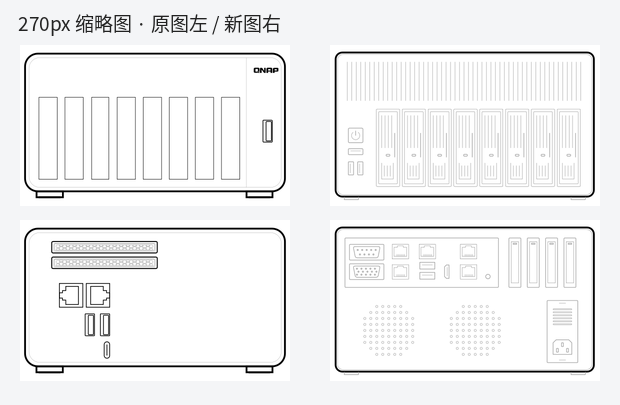
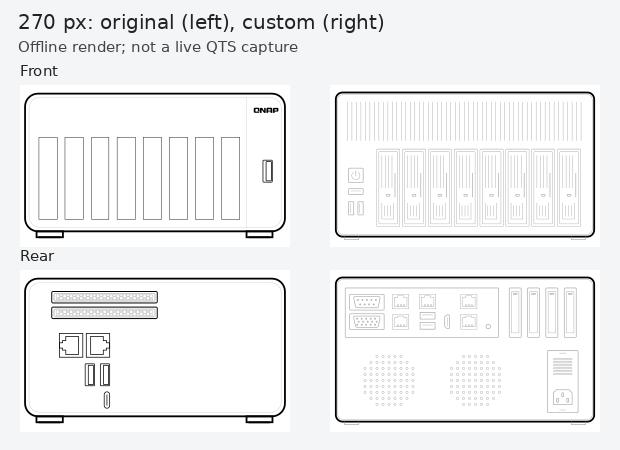
docs: regenerate chassis figures with English labels

Changed region(s): [[0.521, 0.1185, 0.9806, 0.9481], [0.0306, 0.4148, 0.4597, 0.9481], [0.0306, 0.0296, 0.6435, 0.4148]]

diff --git a/tools/render_chassis_comparisons.py b/tools/render_chassis_comparisons.py
@@ -1,0 +1,92 @@
+#!/usr/bin/env python3
+"""Render English-labeled chassis comparisons from locally obtained QTS assets.
+
+Requires Pillow and PyGObject/GdkPixbuf (with SVG support). Does not access a NAS.
+Vendor SVG/CSS inputs are supplied locally and are not part of this repository.
+"""
+from argparse import ArgumentParser
+from pathlib import Path
+import xml.etree.ElementTree as ET
+
+import gi
+from PIL import Image, ImageDraw, ImageFont
+
+gi.require_version('GdkPixbuf', '2.0')
+from gi.repository import GdkPixbuf
+
+NS = 'http://www.w3.org/2000/svg'
+ET.register_namespace('', NS)
+
+
+def main():
+    parser = ArgumentParser(description=__doc__)
+    parser.add_argument('--original-dir', type=Path, required=True)
+    parser.add_argument('--adapted-dir', type=Path, required=True)
+    parser.add_argument('--network-css', type=Path, required=True)
+    parser.add_argument('--output-dir', type=Path, required=True)
+    parser.add_argument('--font', default='/usr/share/fonts/truetype/dejavu/DejaVuSans.ttf')
+    args = parser.parse_args()
+    args.output_dir.mkdir(parents=True, exist_ok=True)
+    css = args.network_css.read_text()
+    font = lambda size: ImageFont.truetype(args.font, size)
+
+    def render(face, custom, dark=False, selected=False):
+        name = f'ts_873a_{face}' + ('.candidate.svg' if custom else '.svg')
+        root = ET.parse((args.adapted_dir if custom else args.original_dir) / name).getroot()
+        for parent in root.iter():
+            for child in list(parent):
+                if child.tag == f'{{{NS}}}style':
+                    parent.remove(child)
+        # Dark rules are a fixture, not extracted mobile CSS or a live capture.
+        ET.SubElement(root, f'{{{NS}}}style').text = css + (
+            '\n.shape,.others,.off,.on{stroke:#aaa}' if dark else '')
+        if selected:
+            target = 'hd_0' if face == 0 else 'ethernet_3'
+            group = next(node for node in root.iter() if node.get('id') == target)
+            for node in group.iter():
+                if node.get('class') == 'off':
+                    node.set('class', 'off on')
+        loader = GdkPixbuf.PixbufLoader.new_with_type('svg')
+        loader.set_size(270, 161)
+        loader.write(ET.tostring(root))
+        loader.close()
+        pix = loader.get_pixbuf()
+        mode = 'RGBA' if pix.get_has_alpha() else 'RGB'
+        image = Image.frombytes(mode, (pix.get_width(), pix.get_height()),
+                                pix.get_pixels(), 'raw', mode, pix.get_rowstride()).convert('RGBA')
+        background = Image.new('RGBA', (270, 162), '#1d1d1d' if dark else 'white')
+        background.alpha_composite(image)
+        return background.convert('RGB')
+
+    comparison = Image.new('RGB', (620, 450), '#f4f5f7')
+    draw = ImageDraw.Draw(comparison)
+    draw.text((18, 10), '270 px: original (left), custom (right)', font=font(20), fill='#222')
+    draw.text((18, 38), 'Offline render; not a live QTS capture', font=font(15), fill='#444')
+    for face, label in enumerate(['Front', 'Rear']):
+        y = 85 + face * 185
+        draw.text((20, y - 23), label, font=font(15), fill='#222')
+        for custom in [False, True]:
+            comparison.paste(render(face, custom), (20 + int(custom) * 310, y))
+    comparison.save(args.output_dir / 'before-after-270px.png')
+
+    themes = Image.new('RGB', (1160, 510), '#eeeeee')
+    draw = ImageDraw.Draw(themes)
+    draw.text((15, 10), 'Transparent interiors at 270 px: native light CSS and simulated dark theme',
+              font=font(19), fill='#222')
+    draw.text((15, 38), 'Offline render. Dark rules and selections are test fixtures, not live mobile data.',
+              font=font(16), fill='#444')
+    for face, label in enumerate(['Front', 'Rear']):
+        for dark in [False, True]:
+            for selected in [False, True]:
+                x = 15 + int(dark) * 570 + int(selected) * 280
+                y = 110 + face * 220
+                caption = ('Dark fixture' if dark else 'Native light CSS') + (' / selected' if selected else ' / neutral')
+                draw.text((x, y - 24), caption, font=font(15), fill='#222')
+                themes.paste(render(face, True, dark, selected), (x, y))
+        draw.text((15, 65 + face * 220), label, font=font(15), fill='#444')
+    themes.save(args.output_dir / 'transparent-light-dark.png')
+    print('Rendered two English-only comparison sheets; no NAS operations.')
+
+
+if __name__ == '__main__':
+    main()

diff --git a/docs/12-custom-chassis-display.md b/docs/12-custom-chassis-display.md
@@ -32,6 +32,20 @@ The front has power/reset buttons, two vertical USB sockets and eight trays. The
 
 Original vector design sources: [front](../assets/chassis/custom-front.svg), [rear](../assets/chassis/custom-rear.svg). These are **design sources**, not a universal drop-in QTS package: the deployed adaptation additionally preserves QTS slot IDs, wrapper groups and native style injection. Do not copy generic physical positions into another host's adapter/disk mapping.
 
+### Figure language and reproducibility
+
+All visible labels in these two figures are English, matching this document. The front/rear hardware SVGs contain no visible text. The figures are regenerated from vector inputs by [render_chassis_comparisons.py](../tools/render_chassis_comparisons.py), rather than editing text over an existing screenshot. Supply locally obtained original SVGs, reviewed adapted SVGs, and the original network CSS; vendor inputs remain private. The renderer requires Pillow and PyGObject/GdkPixbuf with SVG support. It never contacts or modifies a NAS.
+
+```sh
+python3 tools/render_chassis_comparisons.py \
+  --original-dir /path/to/local-original-layout \
+  --adapted-dir /path/to/reviewed-adapted-layout \
+  --network-css /path/to/local-style_layout.css \
+  --output-dir assets/chassis
+```
+
+The dark-theme rule remains an explicit fixture, and selections remain synthetic. Port confidence is unchanged: X550 positions are user-confirmed; i210 positions are inferred.
+
 ### Transparent interiors and theme behavior
 
 An initial full-canvas white rectangle looked wrong on the actual mobile disk page. A first correction removed only the surrounding rectangle but left a white chassis body. The accepted final correction removes that body and unnecessary fixed white fills as well. Static strokes no longer use inline hard-coded black colors in the QTS adaptation; native `.shape`, `.others`, `.off` and `.on` rules determine their appearance.
